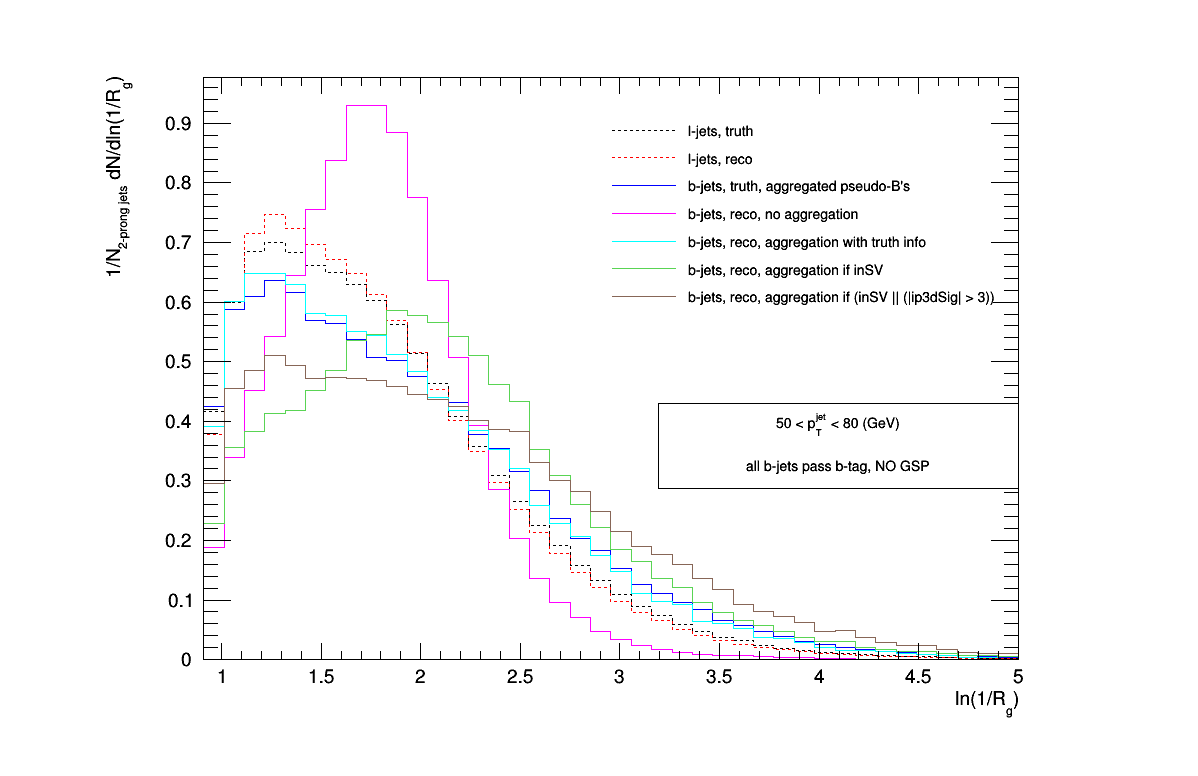
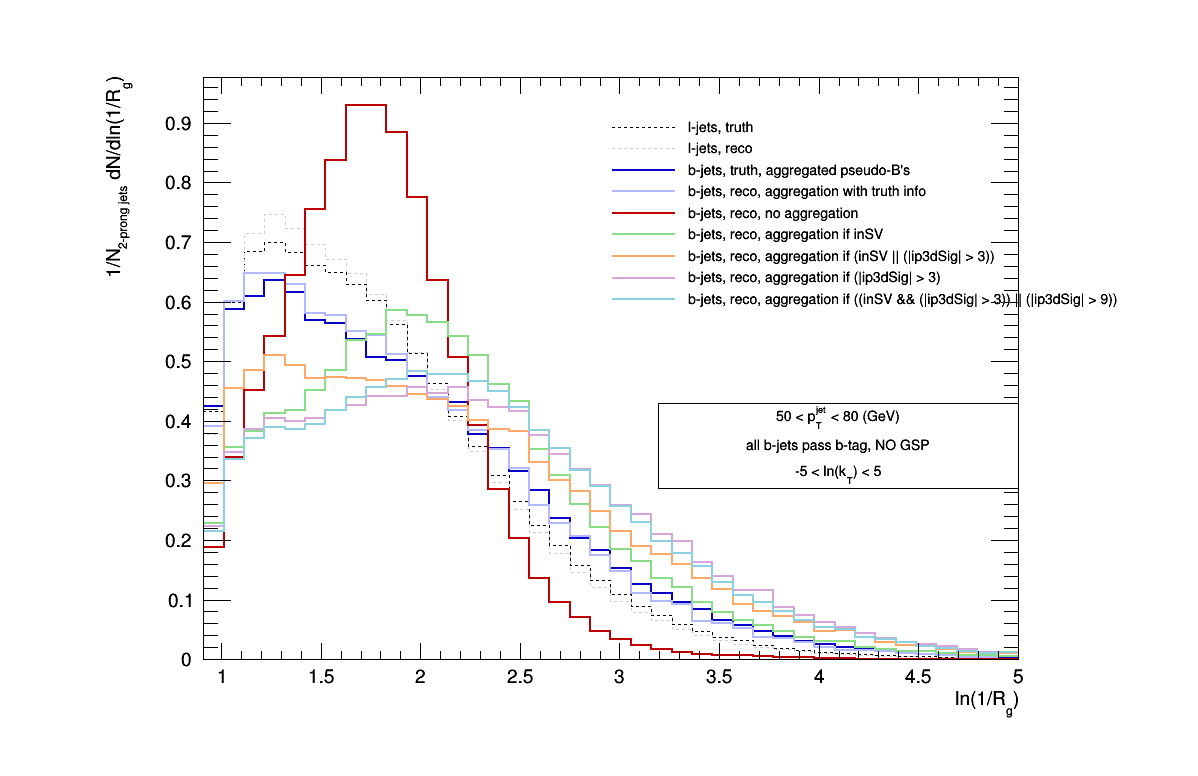
update colors and selections in rg, zg projections

diff --git a/myMacros/pt2dscan/projections1d/draw_projections1d_1ptBin.C b/myMacros/pt2dscan/projections1d/draw_projections1d_1ptBin.C
@@ -3,6 +3,6 @@
 void draw_projections1d_1ptBin(bool GSPincl = false)
 {
     HistDrawer_pt2dscan HD;
-    HD.draw_rg_projection(GSPincl);
-    //HD.draw_zg_projection(GSPincl);
+    //HD.draw_1d_projection(GSPincl, "rg");
+    HD.draw_1d_projection(GSPincl, "zg");
 }
